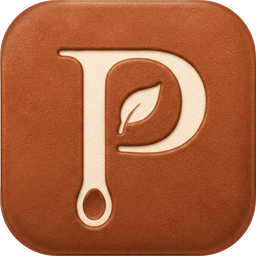
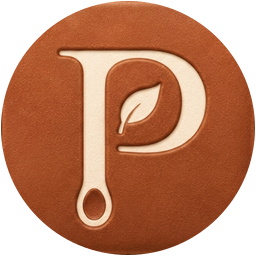
Use a leather circle for the in-app brand mark
The in-app logo (nav + auth) becomes a circular leather roundel instead
of a mini rounded-square. It's derived from the same approved master as
the app icon, so the leather and colour match exactly — only the
silhouette differs.

- build-icons.js: add a circle() mask; pantry-mark.png is now a circle
- Nav + Auth brandMark: border-radius 50% so the shadow tracks the circle
- Home-screen icon, favicons, PWA icons stay square (platform app icons)

Changed region(s): [[0.0, 0.0, 1.0, 1.0]]

diff --git a/branding/build-icons.js b/branding/build-icons.js
@@ -61,6 +61,22 @@ async function main() {
       .toFile(file);
   };
 
+  // Circle mask — for the in-app brand mark only (a leather roundel).
+  // The home-screen / favicon icons stay square; platforms mask those themselves.
+  const circle = async (size, file) => {
+    const r = (size - 2) / 2;
+    const mask = Buffer.from(
+      `<svg xmlns="http://www.w3.org/2000/svg" width="${size}" height="${size}">` +
+      `<circle cx="${size / 2}" cy="${size / 2}" r="${r}" fill="#fff"/></svg>`
+    );
+    await sharp(master)
+      .resize(size, size)
+      .ensureAlpha()
+      .composite([{ input: mask, blend: 'dest-in' }])
+      .png()
+      .toFile(file);
+  };
+
   // ── App Store / marketing master ──
   await fullBleed(1024, path.join(BRAND, 'icon-1024.png'));
 
@@ -97,11 +113,13 @@ async function main() {
   await fullBleed(192, path.join(PUBLIC, 'icon-192.png'));
   await fullBleed(512, path.join(PUBLIC, 'icon-512.png'));
 
-  // ── Web: favicons + in-app brand mark (rounded) ──
+  // ── Web: favicons stay square (browser-tab app icons) ──
   await rounded(180, path.join(PUBLIC, 'favicon-180.png'));
   await rounded(32, path.join(PUBLIC, 'favicon-32.png'));
   await rounded(16, path.join(PUBLIC, 'favicon-16.png'));
-  await rounded(256, path.join(PUBLIC, 'pantry-mark.png'));
+
+  // ── In-app brand mark — a leather circle (nav / auth / splash) ──
+  await circle(256, path.join(PUBLIC, 'pantry-mark.png'));
 
   console.log('icons built');
 }

diff --git a/src/components/Navigation.module.css b/src/components/Navigation.module.css
@@ -70,9 +70,9 @@
 .brandMark {
   width: 32px;
   height: 32px;
-  border-radius: 8px;
+  border-radius: 50%;
   display: block;
-  box-shadow: 0 1px 2px rgba(31, 27, 22, 0.16);
+  box-shadow: 0 1px 3px rgba(31, 27, 22, 0.18);
 }
 
 .brandWord {

diff --git a/src/pages/AuthPage.module.css b/src/pages/AuthPage.module.css
@@ -29,7 +29,7 @@
 .brandMark {
   width: 44px;
   height: 44px;
-  border-radius: 11px;
+  border-radius: 50%;
   box-shadow: 0 3px 9px rgba(160, 82, 45, 0.26);
 }
 
